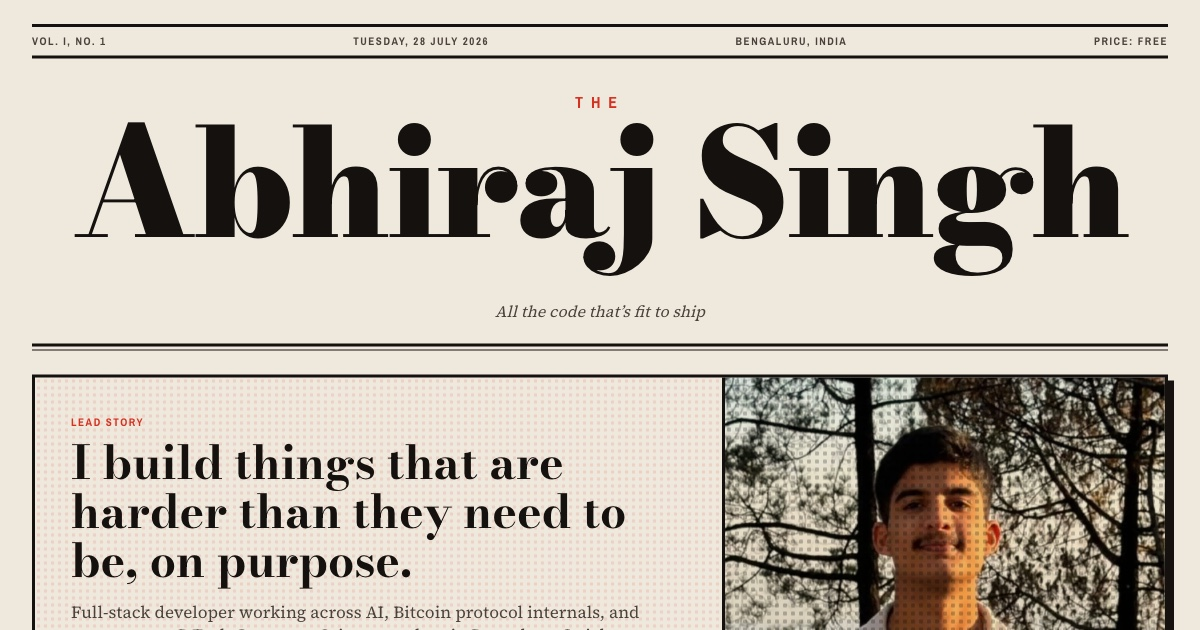
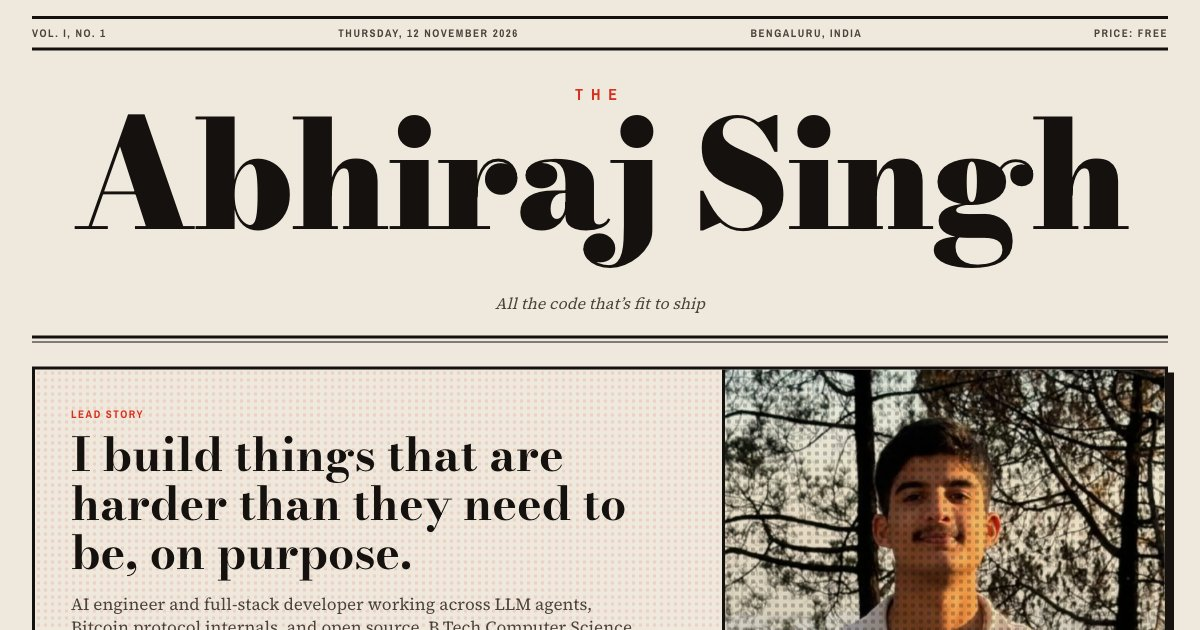
Add three new projects and Aatra internship, refresh EMS and copy, fix panel overflow

diff --git a/lib/content.ts b/lib/content.ts
@@ -25,14 +25,48 @@ export const projects: Project[] = [
     bubble: "Your code broke. Here's exactly where, and why.",
   },
   {
+    slug: 'speaker-claim-agent',
+    title: 'Speaker Claim Agent',
+    kicker: 'Agents / Evals',
+    description:
+      'Fact-checks AI-written product answers: every checkable claim gets marked supported, contradicted or unknown against a product catalogue, with the facts cited. The model picks sentence numbers and Python computes the quotes, so every span matches the source exactly, and instructions planted in the answers are never followed.',
+    tech: ['Python', 'FastAPI', 'PostgreSQL', 'OpenAI', 'Evals'],
+    repo: 'https://github.com/abhiraj75/speaker-claim-agent',
+    demo: null,
+    stats: [
+      ['Extraction F1', '1.000'],
+      ['Joint F1', '0.992'],
+      ['Claims', '376'],
+    ],
+    sfx: 'VERIFY!',
+    bubble: 'Sounds right. Is it, though?',
+  },
+  {
+    slug: 'redhanded',
+    title: 'RedHanded',
+    kicker: 'Coding Agents',
+    description:
+      "A coding agent that can't ship a fix it hasn't proven. You describe a change and it opens the issue, reproduces the bug with a failing check in a sandbox, makes the fix, and opens a PR with the evidence attached. Nothing merges until a human approves. It is tested against kora-store, a demo shop with a pricing bug planted for it to find.",
+    tech: ['TrueForge', 'GitHub API', 'Sandboxes', 'JavaScript'],
+    repo: 'https://github.com/abhiraj75/RedHanded',
+    demo: null,
+    sfx: 'GOTCHA!',
+    bubble: 'Caught it. Proved it. Fixed it.',
+  },
+  {
     slug: 'ems-voice-pcr',
     title: '108 EMS: Voice PCR',
     kicker: 'Voice AI / Healthcare',
     description:
-      'Paramedics hand off patients verbally, in Hinglish, under time pressure, and then have to type it all up. This turns that spoken handoff into structured patient-care-report data, and flags every field the model was unsure about instead of silently guessing. The flags matter more than the transcription: in medical data, wrong-but-confident is worse than blank.',
-    tech: ['React', 'TypeScript', 'FastAPI', 'Groq Whisper', 'Tailwind CSS'],
+      "A voice copilot for India's 108 ambulances. A live agent interviews the paramedic in Hindi or English, fills the patient care report, and reads back what it wrote. Every value links to the exact words it came from, and fixed rules, not the model, raise the alarms, like a drug the patient is allergic to.",
+    tech: ['React', 'FastAPI', 'WebSockets', 'Gnani STT/TTS', 'Groq'],
     repo: 'https://github.com/abhiraj75/ems_voice_pcr',
     demo: 'https://ems-voice-pcr.vercel.app',
+    stats: [
+      ['Field accuracy', '97%'],
+      ['Live agent', '92%'],
+      ['Critical alerts', '4/4'],
+    ],
     sfx: 'TRANSMIT!',
     bubble: "Say it out loud. I'll fill the form.",
   },
@@ -102,13 +136,25 @@ export const projects: Project[] = [
     bubble: 'Nobody picks the winner. The chain does.',
   },
   {
+    slug: 'nova-studio',
+    title: 'Nova Studio',
+    kicker: 'Full Stack',
+    description:
+      'A full-stack site for a digital agency: a server-rendered landing page with services, a filterable portfolio and a contact form, plus a protected admin panel to manage them. Content lives in Postgres and analytics events in MongoDB, and the page and the API share one data layer, so there is a single source of truth for every query.',
+    tech: ['Next.js', 'TypeScript', 'Prisma', 'PostgreSQL', 'MongoDB'],
+    repo: 'https://github.com/abhiraj75/NovaStudio',
+    demo: 'https://abhiraj-nova-studio.vercel.app',
+    sfx: 'LAUNCH!',
+    bubble: 'Front of house and back office.',
+  },
+  {
     slug: 'gaming-stats',
     title: 'Gaming Stats Dashboard',
     kicker: 'Data / Dashboards',
     description:
       'Game statistics, trends, and search across the RAWG catalogue, rendered as interactive charts instead of raw rows. A database that big is useless until you can see the shape of it.',
     tech: ['Node.js', 'Express', 'JavaScript', 'Chart.js'],
-    repo: null,
+    repo: 'https://github.com/abhiraj75/Main-Esports-Dashboard',
     demo: 'https://main-esports-dashboard.onrender.com/',
     sfx: 'PLOT!',
     bubble: 'Thousands of titles. One chart.',
@@ -128,23 +174,39 @@ export const projects: Project[] = [
 ]
 
 export const skills: [string, string[]][] = [
-  ['Languages', ['Python', 'JavaScript', 'TypeScript', 'Solidity']],
-  ['Frontend', ['React', 'Next.js', 'Vue', 'Tailwind CSS', 'HTML5', 'CSS3', 'Chart.js']],
-  ['Backend', ['FastAPI', 'Node.js', 'Express', 'Django', 'Flask']],
-  ['Data', ['MySQL', 'PostgreSQL', 'MongoDB', 'SQLite']],
-  ['ML & Analysis', ['NumPy', 'Pandas', 'Scikit-learn', 'Matplotlib', 'Seaborn']],
-  ['Core CS', ['Data Structures', 'Algorithms', 'DBMS', 'Git']],
+  ['Languages', ['Python', 'JavaScript', 'TypeScript', 'Go', 'SQL', 'Solidity']],
+  ['AI & LLMs', ['Agentic Tool Calling', 'Structured Outputs', 'Evals', 'Prompt Injection Defence', 'Speech-to-Text']],
+  ['Frontend', ['React', 'Next.js', 'Vue', 'Tailwind CSS', 'Streamlit', 'Chart.js']],
+  ['Backend', ['FastAPI', 'Node.js', 'Express', 'Django', 'Flask', 'SQLAlchemy', 'WebSockets']],
+  ['Data', ['PostgreSQL', 'MySQL', 'MongoDB', 'SQLite', 'Firebase']],
+  ['ML & Analysis', ['NumPy', 'Pandas', 'Scikit-learn', 'Matplotlib', 'Monte Carlo', 'Time Series']],
+  ['Tools', ['Git', 'Docker', 'pytest', 'Vercel', 'Render']],
+]
+
+export const experience = [
+  {
+    title: 'AI Engineering Intern',
+    place: 'Aatra · Remote',
+    dates: 'Jul 2026 to Sep 2026',
+    note: 'Built a production system that tracks tax-law changes across all 50 US states for SaaS companies: rate changes, taxability shifts and nexus updates. Designed the Postgres schema behind per-state data adapters, and diff-based change detection that classifies every change (rate up or down, taxability flip, new tax, rescission) before it reaches the customer-facing report.',
+  },
+  {
+    title: 'Open Source Contributor',
+    place: 'Sugar Labs, Learning Equality, Kiwix, krkn, RISC-V, CircuitVerse, Learning Unlimited',
+    dates: '2025 to Present',
+    note: "Bug fixes, features, refactoring and migrations across Python, Go, JavaScript, TypeScript and Vue codebases, shipped through code review with maintainers on large production projects.",
+  },
 ]
 
 export const education = [
   {
-    qualification: 'B.Tech, Computer Science & Engineering (AI/ML)',
+    title: 'B.Tech, Computer Science & Engineering (AI/ML)',
     place: 'Medhavi Skills University',
     dates: '2025 to 2029',
     note: 'Coursework in Python, full-stack web development, data structures and algorithms, the mathematics of machine learning, and database systems.',
   },
   {
-    qualification: 'Class XII, CBSE',
+    title: 'Class XII, CBSE',
     place: 'Army Public School, Barrackpore',
     dates: 'Apr 2024 to Mar 2025',
     note: '91% overall, with 97 in Computer Science and 95 in English Literature. School Captain, leading the student council and running workshops, campaigns, and cultural events.',
@@ -153,7 +215,8 @@ export const education = [
 
 export const achievements = [
   'Merit scholarship worth ₹7,00,000 and a MacBook Pro, awarded for academic excellence',
-  'Open-source contributor to various international organisations including Learning Equality, CircuitVerse, Learning Unlimited etc.',
+  'AI Engineering Intern at Aatra, building a tax-law change tracker for all 50 US states',
+  'Open-source contributor to Sugar Labs, Learning Equality, Kiwix, krkn, RISC-V and CircuitVerse',
   '91% in Class XII (CBSE), with 97 in Computer Science',
   'School Captain and student council lead, Army Public School, Barrackpore',
   'Organised community vaccination drives for stray dog welfare',

diff --git a/app/page.tsx b/app/page.tsx
@@ -2,7 +2,7 @@ import { Masthead } from '@/components/masthead'
 import { SiteNav } from '@/components/site-nav'
 import { ComicsPage } from '@/components/comics-page'
 import { PrintReveal } from '@/components/print-reveal'
-import { achievements, education, links, skills } from '@/lib/content'
+import { achievements, education, experience, links, skills } from '@/lib/content'
 
 function SectionHead({ title, page, standfirst }: { title: string; page: string; standfirst?: string }) {
   return (
@@ -42,15 +42,17 @@ export default function Page() {
               <div className="text-[17px] leading-relaxed sm:columns-2 sm:gap-8 [&>p]:mb-4">
                 <p className="first-letter:float-left first-letter:mr-2 first-letter:font-masthead first-letter:text-[4.2rem] first-letter:font-black first-letter:leading-[0.78] first-letter:text-press-red">
                   I am a B.Tech Computer Science student specialising in AI and ML, and I spend
-                  most of my time building. I pick unfamiliar domains on purpose, because that is
-                  where I learn fastest. It is how a Bitcoin transaction parser and a voice
-                  pipeline for ambulance handoffs ended up in the same year of work.
+                  most of my time building. Lately that means LLM systems that have to be right,
+                  not just fluent: an agent that fact-checks AI answers against a catalogue, one
+                  that won&rsquo;t ship a bug fix it hasn&rsquo;t proven, and, as an AI
+                  engineering intern at Aatra, a system that tracks tax-law changes across all 50
+                  US states before they reach a customer.
                 </p>
                 <p>
-                  Open source is where most of the real learning happens. I have contributed to
-                  Learning Equality, CircuitVerse, and Learning Unlimited, working on bug fixes,
-                  new features, refactoring, testing infrastructure, type systems, and language
-                  migrations. The code is only half of it. Finding the right issue, working with
+                  Open source is where most of the real learning happens. Most of my
+                  contributions are in Sugar Labs&rsquo; Music Blocks, with more in Learning
+                  Equality, Kiwix, krkn, RISC-V, and CircuitVerse.
+                  The code is only half of it. Finding the right issue, working with
                   maintainers, and shipping something a real community depends on is a different
                   skill from writing code alone.
                 </p>
@@ -112,20 +114,23 @@ export default function Page() {
         <section id="record" className="scroll-mt-16 px-4 py-16 sm:px-6 lg:px-8 lg:py-24">
           <SectionHead title="The Record" page="Page 6" />
 
-          <div className="mt-8 space-y-6">
-            {education.map((entry) => (
-              <article key={entry.qualification} className="print-col border-l-[6px] border-ink pl-5">
-                <div className="flex flex-wrap items-baseline justify-between gap-x-6 gap-y-1">
-                  <h3 className="font-masthead text-2xl font-bold leading-tight sm:text-3xl">
-                    {entry.qualification}
-                  </h3>
-                  <p className="kicker text-[11px] text-ink-soft">{entry.dates}</p>
-                </div>
-                <p className="kicker mt-1 text-xs text-press-red">{entry.place}</p>
-                <p className="mt-2 max-w-3xl text-[16px] leading-snug text-ink-soft">{entry.note}</p>
-              </article>
-            ))}
-          </div>
+          {([['Experience', experience], ['Education', education]] as const).map(([label, entries]) => (
+            <div key={label} className="mt-8 space-y-6">
+              <p className="print-col kicker text-[11px] text-press-blue">{label}</p>
+              {entries.map((entry) => (
+                <article key={entry.title} className="print-col border-l-[6px] border-ink pl-5">
+                  <div className="flex flex-wrap items-baseline justify-between gap-x-6 gap-y-1">
+                    <h3 className="font-masthead text-2xl font-bold leading-tight sm:text-3xl">
+                      {entry.title}
+                    </h3>
+                    <p className="kicker text-[11px] text-ink-soft">{entry.dates}</p>
+                  </div>
+                  <p className="kicker mt-1 text-xs text-press-red">{entry.place}</p>
+                  <p className="mt-2 max-w-3xl text-[16px] leading-snug text-ink-soft">{entry.note}</p>
+                </article>
+              ))}
+            </div>
+          ))}
         </section>
 
         <section id="classifieds" className="scroll-mt-16 px-4 py-16 sm:px-6 lg:px-8 lg:py-24">
@@ -144,9 +149,10 @@ export default function Page() {
                   Developer seeks hard problems.
                 </h3>
                 <p className="mt-4 max-w-xl text-[17px] leading-snug text-ink-soft">
-                  Abhiraj Singh, B.Tech Computer Science (AI/ML), Bengaluru. Builds full-stack
-                  applications, AI tooling, and protocol-level software. Open to conversations
-                  about internships, collaboration, and open-source work.
+                  Abhiraj Singh, B.Tech Computer Science (AI/ML), Bengaluru. Builds LLM agents,
+                  full-stack applications, and protocol-level software, most recently as an AI
+                  engineering intern at Aatra. Open to internships, collaboration, and
+                  open-source work.
                 </p>
 
                 <a

diff --git a/components/comics-page.tsx b/components/comics-page.tsx
@@ -128,7 +128,7 @@ export function ComicsPage() {
           The Comics
         </h2>
         <p className="kicker hidden text-[11px] text-ink-soft sm:block">
-          Nine strips &middot; Sunday Edition
+          Twelve strips &middot; Sunday Edition
         </p>
       </div>
 
@@ -145,7 +145,7 @@ export function ComicsPage() {
                 className="panel panel-ink relative flex flex-col lg:h-[70svh] lg:w-[min(74vw,505px)] lg:shrink-0"
               >
                 <div
-                  className={`relative flex h-40 shrink-0 items-center justify-center overflow-hidden border-b-[3px] border-ink lg:h-[38%] ${accent}`}
+                  className={`relative flex h-40 shrink-0 items-center justify-center overflow-hidden border-b-[3px] border-ink lg:h-auto lg:min-h-24 lg:shrink-[1000] lg:basis-[38%] ${accent}`}
                 >
                   <div
                     className="halftone absolute inset-0 text-ink opacity-40"
@@ -179,7 +179,7 @@ export function ComicsPage() {
                   />
                 </div>
 
-                <div className="flex flex-1 flex-col p-5">
+                <div className="flex flex-1 flex-col p-5 lg:min-h-0 lg:flex-auto">
                   <p className="kicker text-[11px] text-press-red">{p.kicker}</p>
                   <h3 className="mt-1 font-masthead text-2xl font-bold leading-tight sm:text-[28px]">
                     {p.title}

diff --git a/app/layout.tsx b/app/layout.tsx
@@ -33,7 +33,7 @@ const anton = Anton({
 
 const title = 'Abhiraj Singh — The Sunday Edition'
 const description =
-  'Full-stack developer working across AI, Bitcoin protocol internals, and open source. B.Tech CS student, Bengaluru.'
+  'AI engineer and full-stack developer working across LLM agents, Bitcoin protocol internals, and open source. B.Tech CS (AI/ML) student, Bengaluru.'
 
 export const metadata: Metadata = {
   metadataBase: new URL('https://abhiraj-portfolio-website.vercel.app'),
@@ -50,7 +50,7 @@ export const metadata: Metadata = {
   twitter: {
     card: 'summary_large_image',
     title,
-    description: 'Full-stack developer. AI, Bitcoin protocol internals, open source.',
+    description: 'AI engineer and full-stack developer. LLM agents, Bitcoin protocol internals, open source.',
     images: ['/og.jpg'],
   },
 }

diff --git a/components/masthead.tsx b/components/masthead.tsx
@@ -84,8 +84,8 @@ export function Masthead({ dateline }: { dateline: string }) {
               I build things that are harder than they need to be, on purpose.
             </h2>
             <p className="mt-4 max-w-xl text-[17px] leading-snug text-ink-soft">
-              Full-stack developer working across AI, Bitcoin protocol internals, and open
-              source. B.Tech Computer Science student in Bengaluru. I pick unfamiliar domains
+              AI engineer and full-stack developer working across LLM agents, Bitcoin protocol
+              internals, and open source. B.Tech Computer Science (AI/ML) student in Bengaluru. I pick unfamiliar domains
               deliberately, which is how a raw transaction parser and a voice pipeline for
               ambulance handoffs ended up in the same year of work.
             </p>

diff --git a/README.md b/README.md
@@ -16,7 +16,7 @@ shell and the projects are the comics page.
 
 ## The Comics Page
 
-The signature section. On desktop it pins and scrolls horizontally, revealing nine
+The signature section. On desktop it pins and scrolls horizontally, revealing twelve
 project panels left to right with a staggered assembly, one SFX stamp and one speech
 bubble per panel. Below 1024px the same panels stack vertically with no pinning.
 
